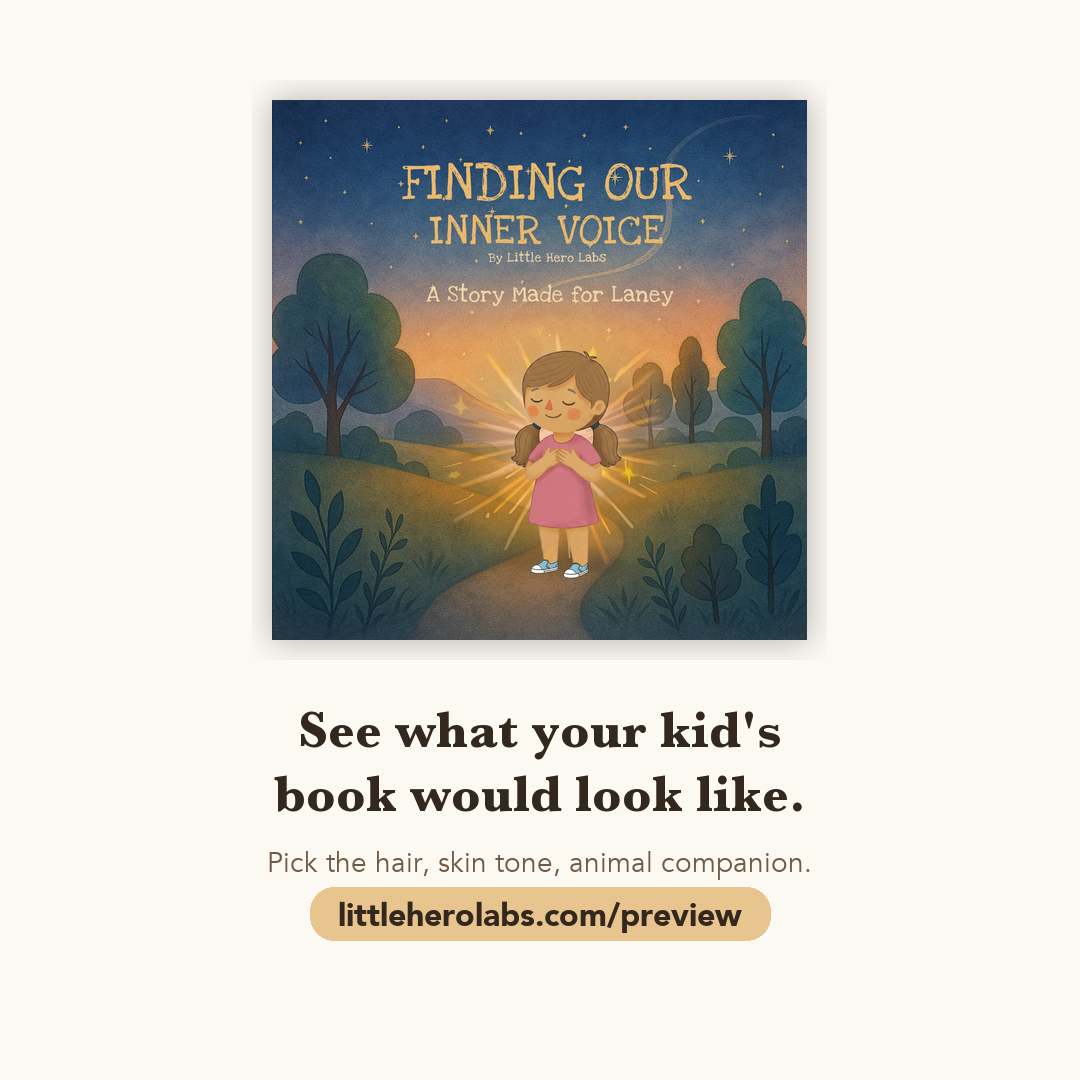
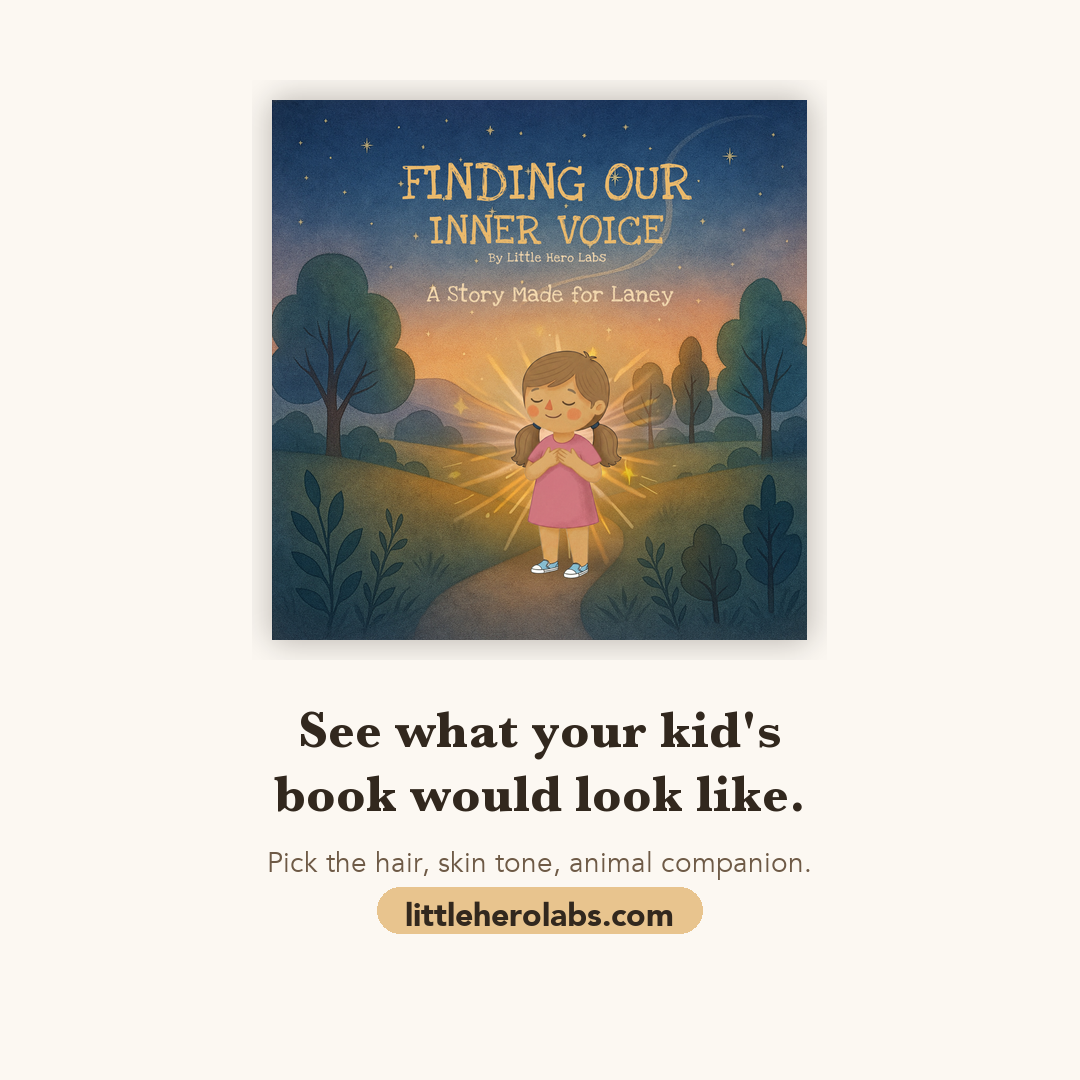
IG Post 9: drop /preview path from CTA pill
The /preview route is a static press/partner-vetting page (noindex, links
to hello@littleherolabs.com), not the interactive builder the caption
describes. Show littleherolabs.com on the asset instead so it doesn't
mislead viewers; bio link will route the click to /create/character.

Changed region(s): [[0.275, 0.7944, 0.7333, 0.8861]]

diff --git a/scripts/instagram-launch/generate-posts.py b/scripts/instagram-launch/generate-posts.py
@@ -392,7 +392,7 @@ def post_9():
     line1 = "See what your kid's"
     line2 = "book would look like."
     sub = "Pick the hair, skin tone, animal companion."
-    cta = "littleherolabs.com/preview"
+    cta = "littleherolabs.com"
 
     y = cy + ch + 60
     bbox = draw.textbbox((0, 0), line1, font=title_font)
